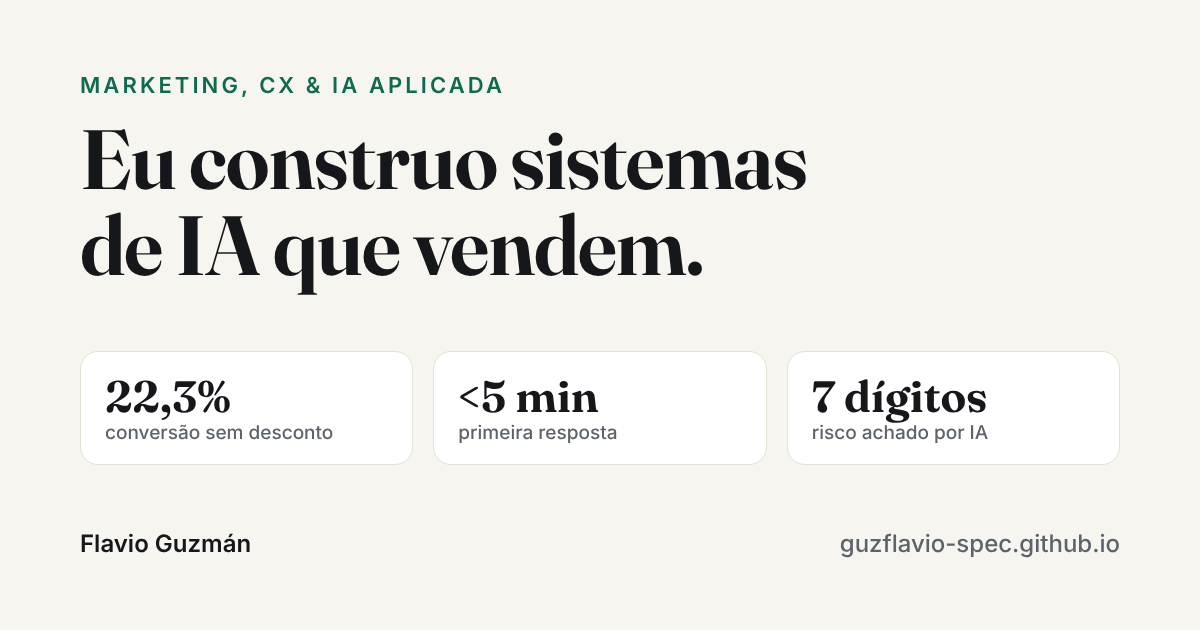
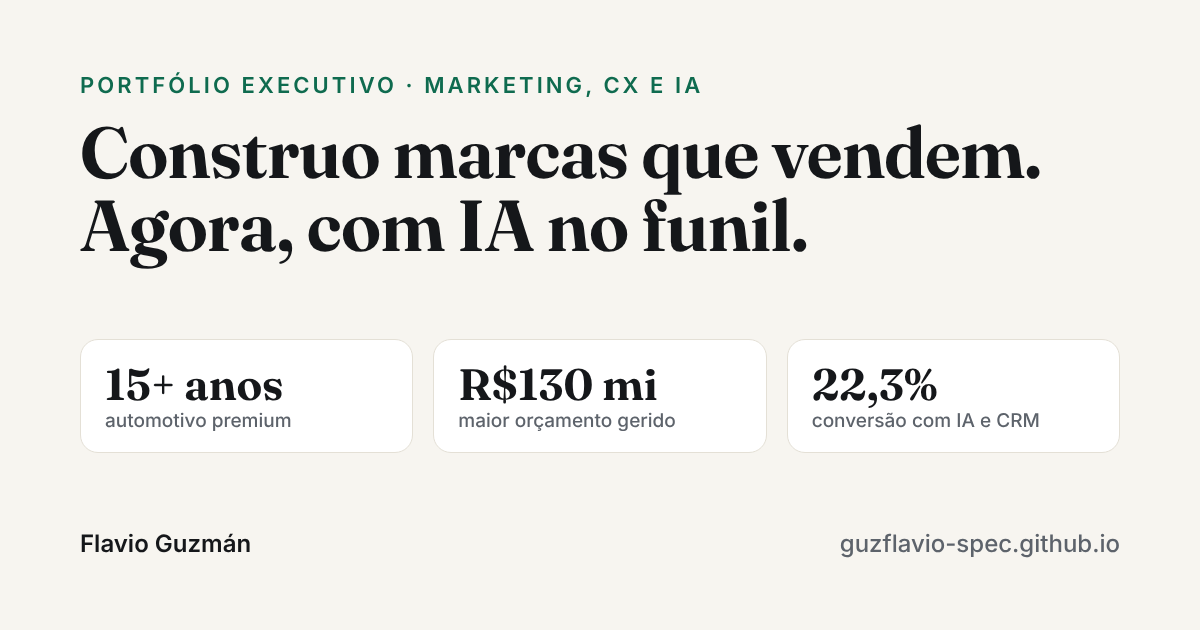
Restructure as executive portfolio: at-a-glance, career highlights, timeline, languages; explicit periods for AI KPIs
Claude-Session: https://claude.ai/code/session_013HVjQyzdKUtreiCeLwRMDJ

diff --git a/index.html b/index.html
@@ -3,10 +3,10 @@
 <head>
 <meta charset="utf-8">
 <meta name="viewport" content="width=device-width, initial-scale=1">
-<title>Flavio Guzmán · Portfólio de IA</title>
-<meta name="description" content="Flavio Guzmán — Marketing &amp; CX leader building AI systems that sell: CRM copilots, multi-agent marketing and data products.">
-<meta property="og:title" content="Flavio Guzmán · IA aplicada a marketing e vendas">
-<meta property="og:description" content="Sistemas de IA em produção no funil de vendas: a dor, a solução, o resultado e quanto custaria sem IA. AI systems that sell.">
+<title>Flavio Guzmán · Portfólio executivo</title>
+<meta name="description" content="Portfólio executivo de Flavio Guzmán: 15+ anos liderando Marketing, Produto, CX e PR no automotivo premium (Lotus, MG, GWM, Mercedes-Benz, Honda) e IA aplicada a vendas.">
+<meta property="og:title" content="Flavio Guzmán · Portfólio executivo">
+<meta property="og:description" content="15+ anos no automotivo premium, orçamentos de até R$130 mi, reporte ao CEO e IA em produção no funil de vendas. Executive portfolio: marketing, CX and applied AI.">
 <meta property="og:type" content="website">
 <meta property="og:url" content="https://guzflavio-spec.github.io/">
 <meta property="og:image" content="https://guzflavio-spec.github.io/og.png">
@@ -69,8 +69,56 @@ h1{font-family:Fraunces,Georgia,serif;font-weight:650;font-size:clamp(34px,6vw,5
 .kpi b{display:block;font-family:Fraunces,Georgia,serif;font-size:32px;line-height:1.1;font-weight:650}
 .kpi small{color:var(--muted);font-size:14px;line-height:1.4;display:block;margin-top:4px}
 
+
+/* nav */
+.nav{display:none;gap:18px}
+.nav a{color:var(--muted);text-decoration:none;font:500 14px Inter,sans-serif}
+.nav a:hover{color:var(--ink)}
+@media (min-width:960px){.nav{display:flex}}
+/* hero v3 */
+.hero-grid{display:grid;grid-template-columns:1fr;gap:28px;align-items:start}
+@media (min-width:960px){.hero-grid{grid-template-columns:1.25fr 1fr;gap:40px}}
+.hero .lede{font-size:clamp(16px,1.9vw,18px)}
+.hero .btns{margin-top:22px}
+.btn.dark{background:var(--ink);color:var(--bg)}
+.btn.line{background:var(--surface);color:var(--ink);border:1px solid var(--line)}
+.glance{background:var(--surface);border:1px solid var(--line);border-radius:18px;box-shadow:var(--shadow);padding:6px 20px}
+.glance h2{font:700 12px Inter,sans-serif;letter-spacing:.14em;text-transform:uppercase;color:var(--muted);margin:14px 0 4px}
+.glance dl{margin:0}
+.glance .row{display:grid;grid-template-columns:96px 1fr;gap:12px;padding:11px 0;border-top:1px solid var(--line);font-size:14.5px;line-height:1.45}
+.glance .row:first-child{border-top:0}
+.glance dt{font:700 11.5px Inter,sans-serif;letter-spacing:.08em;text-transform:uppercase;color:var(--accent);padding-top:2px}
+.glance dd{margin:0}
+.glance .ai dd b{color:var(--accent)}
+/* highlights */
+.hl{display:grid;grid-template-columns:repeat(2,1fr);gap:12px}
+@media (min-width:860px){.hl{grid-template-columns:repeat(4,1fr)}}
+.hl > div{background:var(--surface);border:1px solid var(--line);border-radius:14px;padding:18px;box-shadow:var(--shadow);display:flex;flex-direction:column}
+.hl b{font-family:Fraunces,Georgia,serif;font-size:clamp(24px,3vw,32px);line-height:1.1;font-weight:650}
+.hl p{margin:6px 0 10px;font-size:14px;color:var(--ink);line-height:1.4}
+.hl small{margin-top:auto;font-size:12.5px;color:var(--muted)}
+.hl .ai{background:var(--accent-soft);border-color:transparent}
+.hl .ai small{color:var(--accent);font-weight:600}
+.featured-kpis{margin:0 0 24px}
+/* timeline */
+.tl{list-style:none;margin:0;padding:0;border-left:2px solid var(--line);max-width:860px}
+.tl li{position:relative;padding:0 0 26px 22px}
+.tl li::before{content:"";position:absolute;left:-7px;top:6px;width:12px;height:12px;border-radius:50%;background:var(--surface);border:2px solid var(--accent)}
+.tl .when{font:600 13px Inter,sans-serif;color:var(--muted)}
+.tl h3{margin:2px 0 2px;font-size:18px;line-height:1.3}
+.tl h3 span.co{color:var(--accent)}
+.tl p{margin:4px 0 0;font-size:15px}
+.tl .scope{color:var(--muted);font-size:14px}
+.tl li.early h3{font-size:16px}
+/* profile */
+.profile{display:grid;grid-template-columns:1fr;gap:16px}
+@media (min-width:720px){.profile{grid-template-columns:repeat(3,1fr)}}
+.profile ul{margin:6px 0 0;padding-left:18px;font-size:14.5px}
+.profile li{margin:4px 0}
+.profile li small{color:var(--muted)}
+
 /* section */
-section{padding:40px 0}
+section{padding:40px 0;scroll-margin-top:56px}
 h2{font-family:Fraunces,Georgia,serif;font-weight:650;font-size:clamp(26px,3.6vw,36px);margin:0 0 8px;letter-spacing:-.01em}
 .sub{color:var(--muted);margin:0 0 28px;max-width:720px}
 
@@ -178,7 +226,14 @@ footer{color:var(--muted);font-size:13px;padding:28px 0 48px}
 
 <div class="bar">
   <div class="wrap">
-    <div class="brand">Flavio Guzmán <span><span class="pt">· Portfólio de IA</span><span class="en">· AI Portfolio</span></span></div>
+    <div class="brand">Flavio Guzmán <span><span class="pt">· Portfólio executivo</span><span class="en">· Executive portfolio</span></span></div>
+    <nav class="nav" aria-label="Seções">
+      <a href="#highlights"><span class="pt">Destaques</span><span class="en">Highlights</span></a>
+      <a href="#featured"><span class="pt">IA aplicada</span><span class="en">Applied AI</span></a>
+      <a href="#career"><span class="pt">Trajetória</span><span class="en">Career</span></a>
+      <a href="#media"><span class="pt">Mídia</span><span class="en">Media</span></a>
+      <a href="#profile"><span class="pt">Idiomas</span><span class="en">Languages</span></a>
+    </nav>
     <div class="bar-right">
     <a class="hdr-cta" href="#contact"><span class="pt">Contato</span><span class="en">Contact</span></a>
     <div class="toggle" role="group" aria-label="Idioma / Language">
@@ -190,27 +245,59 @@ footer{color:var(--muted);font-size:13px;padding:28px 0 48px}
 </div>
 
 <header class="hero">
+  <div class="wrap hero-grid">
+    <div>
+      <div class="eyebrow"><span class="pt">Portfólio executivo</span><span class="en">Executive portfolio</span></div>
+      <div class="who" style="margin-top:16px"><img class="avatar" src="foto.jpg" width="72" height="72" alt="Flavio Guzmán"><div><b>Flavio Guzmán</b><span class="r"><span class="pt">Executivo de Marketing, Produto, CX e PR · São Paulo</span><span class="en">Marketing, Product, CX &amp; PR executive · São Paulo</span></span></div></div>
+      <h1><span class="pt">Construo marcas que vendem. Agora, com IA no funil.</span><span class="en">I build brands that sell. Now with AI in the funnel.</span></h1>
+      <p class="lede"><span class="pt">Mais de 15 anos no automotivo premium, no Brasil e na América Latina, em Mercedes-Benz, Honda, GWM, MG e Lotus. Liderei entradas de marca com orçamento de até R$130 milhões, reportando ao CEO. Como Head de Go-to-Market da GWM, a chegada ao Brasil somou cerca de 8 mil carros e mais de R$2 bilhões em vendas em 5 meses. Em 2026 levei a IA para dentro do CRM: um copiloto de vendas em Salesforce e Claude que segue em uso.</span><span class="en">15+ years in premium automotive across Brazil and Latin America, at Mercedes-Benz, Honda, GWM, MG and Lotus. I have led brand entries with budgets of up to R$130M, reporting to the CEO. As GWM's Head of Go-to-Market, the Brazil launch reached about 8,000 cars and R$2B+ in sales in 5 months. In 2026 I brought AI into the CRM: a sales copilot on Salesforce and Claude that is still in use.</span></p>
+      <div class="btns">
+        <a class="btn dark" href="cv.pdf" download="CV_Flavio_Guzman.pdf"><span class="pt">Baixar CV</span><span class="en">Download CV</span></a>
+        <a class="btn line" href="https://www.linkedin.com/in/flavio-guzm%C3%A1n/" rel="noopener" target="_blank">LinkedIn</a>
+        <a class="btn line" href="#featured"><span class="pt">Ver o caso de IA</span><span class="en">See the AI case</span> ↓</a>
+      </div>
+    </div>
+    <aside class="glance" aria-label="Em resumo">
+      <h2><span class="pt">Em resumo</span><span class="en">At a glance</span></h2>
+      <dl>
+        <div class="row"><dt><span class="pt">Gestão</span><span class="en">Scope</span></dt><dd><span class="pt">Orçamentos de até R$130 mi · reporte ao CEO · 3 agências · rede de 70+ grupos de concessionárias</span><span class="en">Budgets up to R$130M · reporting to the CEO · 3 agencies · network of 70+ dealer groups</span></dd></div>
+        <div class="row"><dt><span class="pt">Marcas</span><span class="en">Brands</span></dt><dd>Lotus · MG · GWM (Haval, Ora, Wey) · Mercedes-Benz <span class="pt">e</span><span class="en">&amp;</span> AMG · Honda</dd></div>
+        <div class="row"><dt><span class="pt">Áreas</span><span class="en">Functions</span></dt><dd><span class="pt">Marketing, Produto, Marca, CRM, CX e PR</span><span class="en">Marketing, Product, Brand, CRM, CX and PR</span></dd></div>
+        <div class="row ai"><dt><span class="pt">IA</span><span class="en">AI</span></dt><dd><span class="pt"><b>22,3%</b> de conversão sem desconto e resposta em <b>&lt;5 min</b> com CRM e IA (2026)</span><span class="en"><b>22.3%</b> conversion with no discounting and <b>&lt;5 min</b> response with CRM and AI (2026)</span></dd></div>
+        <div class="row"><dt><span class="pt">Idiomas</span><span class="en">Languages</span></dt><dd><span class="pt">Português nativo · Inglês fluente · Espanhol avançado</span><span class="en">Portuguese (native) · English (fluent) · Spanish (advanced)</span></dd></div>
+        <div class="row"><dt><span class="pt">Mídia</span><span class="en">Media</span></dt><dd><span class="pt">Porta-voz em TV e imprensa · 1º show de drones num lançamento automotivo</span><span class="en">Spokesperson on TV and in the press · first drone show at a car launch</span></dd></div>
+      </dl>
+    </aside>
+  </div>
+</header>
+
+<section id="highlights">
   <div class="wrap">
-    <div class="who"><img class="avatar" src="foto.jpg" width="72" height="72" alt="Flavio Guzmán"><div><b>Flavio Guzmán</b><span class="r"><span class="pt">Head de Marketing, CX e PR</span><span class="en">Head of Marketing, CX &amp; PR</span></span></div></div>
-    <div class="eyebrow"><span class="pt">Marketing, CX e IA aplicada</span><span class="en">Marketing, CX and applied AI</span></div>
-    <h1><span class="pt">Eu construo sistemas de IA que vendem.</span><span class="en">I build AI systems that sell.</span></h1>
-    <p class="lede">
-      <span class="pt">Lidero Marketing e CX e coloco IA para trabalhar no funil. Um dos meus sistemas diz a cada vendedor de uma importadora de luxo quem chamar hoje e o que dizer, e está em produção no Salesforce. Cada caso abaixo mostra a dor, a solução, o resultado e quanto custaria sem IA.</span>
-      <span class="en">I lead Marketing and CX and put AI to work across the funnel. One of my systems tells every salesperson at a luxury car importer who to call today and what to say, live in Salesforce. Each case below shows the pain, the solution, the result and what it would cost without AI.</span>
-    </p>
-    <div class="kpis">
-      <div class="kpi"><b>22,3%</b><small><span class="pt">de conversão em leads de alto valor, sem desconto no preço</span><span class="en">conversion on high-ticket leads, with no price discounting</span></small></div>
+    <h2><span class="pt">Destaques da carreira</span><span class="en">Career highlights</span></h2>
+    <p class="sub"><span class="pt">Resultados de marca, mercado e IA, com a empresa e o período de cada um.</span><span class="en">Brand, market and AI results, each with its company and period.</span></p>
+    <div class="hl">
+      <div><b>R$2 bi+</b><p><span class="pt">em vendas e ~8 mil carros nos 5 primeiros meses da marca no Brasil</span><span class="en">in sales and ~8,000 cars in the brand's first 5 months in Brazil</span></p><small>GWM · Go-to-Market</small></div>
+      <div><b><span class="pt">1º lugar</span><span class="en">#1</span></b><p><span class="pt">em SUVs híbridos já no primeiro mês de vendas</span><span class="en">in hybrid SUVs in the very first month of sales</span></p><small>GWM · Go-to-Market</small></div>
+      <div><b>16</b><p><span class="pt">prêmios de imprensa em 5 meses</span><span class="en">press awards in 5 months</span></p><small>GWM · Go-to-Market</small></div>
+      <div><b>R$33,6 mi</b><p><span class="pt">em mídia espontânea, com 600+ matérias positivas</span><span class="en">in earned media, with 600+ positive articles</span></p><small>MG Motor · 2025</small></div>
+      <div><b><span class="pt">1º</span><span class="en">First</span></b><p><span class="pt">show de drones num lançamento automotivo, no rooftop do Teatro Santander</span><span class="en">drone show at a car launch, on the Teatro Santander rooftop</span></p><small>MG Motor · 11/11/2025</small></div>
+      <div><b>R$5 mi</b><p><span class="pt">em mídia espontânea no lançamento da marca</span><span class="en">in earned media at the brand launch</span></p><small>Lotus · 2026</small></div>
+      <div class="ai"><b>22,3%</b><p><span class="pt">de conversão em leads de alto valor, sem desconto no preço</span><span class="en">conversion on high-ticket leads, with no price discounting</span></p><small><span class="pt">IA + CRM · jan–ago 2026</span><span class="en">AI + CRM · Jan–Aug 2026</span></small></div>
+      <div class="ai"><b>&lt;5 min</b><p><span class="pt">até a primeira resposta ao cliente</span><span class="en">to first customer response</span></p><small><span class="pt">IA + CRM · jan–ago 2026</span><span class="en">AI + CRM · Jan–Aug 2026</span></small></div>
+    </div>
+  </div>
+</section>
+
+<section id="featured">
+  <div class="wrap">
+    <h2><span class="pt">IA aplicada: principais conquistas</span><span class="en">Applied AI: key achievements</span></h2>
+    <p class="sub"><span class="pt">Sistemas que construí com IA e coloquei no funil de vendas. Cada caso mostra a dor, a solução, o resultado e quanto custaria sem IA. O principal: um copiloto que diz a cada vendedor quem chamar hoje, por que e com qual mensagem.</span><span class="en">Systems I built with AI and put into the sales funnel. Each case shows the pain, the solution, the result and what it would cost without AI. The flagship: a copilot that tells every salesperson who to call today, why, and with which message.</span></p>
+    <div class="kpis featured-kpis">
+      <div class="kpi"><b>22,3%</b><small><span class="pt">de conversão em leads de alto valor, sem desconto (jan–ago 2026)</span><span class="en">conversion on high-ticket leads, no discounting (Jan–Aug 2026)</span></small></div>
       <div class="kpi"><b>&lt;5 min</b><small><span class="pt">até a primeira resposta ao cliente, com CRM e IA</span><span class="en">to first customer response, with CRM and AI</span></small></div>
       <div class="kpi"><b><span class="pt">7 dígitos</span><span class="en">7 figures</span></b><small><span class="pt">de risco financeiro achado por auditoria automática</span><span class="en">in financial exposure found by an automated audit</span></small></div>
       <div class="kpi"><b>~60</b><small><span class="pt">pessoas-mês estimadas para fazer o mesmo sem IA*</span><span class="en">estimated person-months to do the same without AI*</span></small></div>
     </div>
-  </div>
-</header>
-
-<section id="featured">
-  <div class="wrap">
-    <h2><span class="pt">O caso principal</span><span class="en">The flagship case</span></h2>
-    <p class="sub"><span class="pt">Um copiloto que entrega a cada vendedor quem chamar hoje, por que e com qual mensagem.</span><span class="en">A copilot that tells every salesperson who to call today, why, and with which message.</span></p>
 
     <article class="feature">
       <div class="feature-head">
@@ -263,7 +350,7 @@ footer{color:var(--muted);font-size:13px;padding:28px 0 48px}
         </div>
         <div>
           <div class="label"><span class="pt">3 · Resultado</span><span class="en">3 · Output</span></div>
-          <p><span class="pt">Implantado para todo o time. Conversão de 22,3% em leads de alto valor sem desconto no preço e primeira resposta em menos de 5 minutos. Cada vendedor abre o dia com a lista priorizada, o perfil do cliente, o argumento de mercado e a mensagem pronta. Uma auditoria automática de pedidos achou um risco financeiro de sete dígitos em sinais sem confirmação e conflitos de alocação de carro, e propôs as regras de validação.</span><span class="en">Rolled out to the whole team. 22.3% conversion on high-ticket leads with no discounting, and first response in under 5 minutes. Every rep starts the day with a prioritized list, the buyer's profile, the market angle and a ready message. An automated order audit surfaced a seven-figure exposure in unconfirmed deposits plus car-allocation conflicts, and proposed the validation rules.</span></p>
+          <p><span class="pt">Implantado para todo o time. No período de janeiro a agosto de 2026, com o CRM completo (jornadas, lead score, MEDDIC e o copiloto), a conversão em leads de alto valor foi de 22,3% sem desconto no preço, com primeira resposta em menos de 5 minutos. Cada vendedor abre o dia com a lista priorizada, o perfil do cliente, o argumento de mercado e a mensagem pronta. Uma auditoria automática de pedidos achou um risco financeiro de sete dígitos em sinais sem confirmação e conflitos de alocação de carro, e propôs as regras de validação.</span><span class="en">Rolled out to the whole team. From January to August 2026, with the full CRM in place (journeys, lead scoring, MEDDIC and the copilot), high-ticket lead conversion was 22.3% with no discounting, with first response in under 5 minutes. Every rep starts the day with a prioritized list, the buyer's profile, the market angle and a ready message. An automated order audit surfaced a seven-figure exposure in unconfirmed deposits plus car-allocation conflicts, and proposed the validation rules.</span></p>
         </div>
         <div class="noai">
           <div class="label"><span class="pt">4 · Sem IA (estimativa)</span><span class="en">4 · Without AI (estimate)</span></div>
@@ -276,7 +363,7 @@ footer{color:var(--muted);font-size:13px;padding:28px 0 48px}
       <p class="shots-h"><span class="pt">Telas reais do sistema · nomes, marcas e valores trocados ou ocultos</span><span class="en">Real screens from the system · names, brands and values replaced or hidden</span></p>
       <figure><a href="tela-simulacao.jpg" target="_blank" rel="noopener"><img src="tela-simulacao.jpg" width="1400" height="455" loading="lazy" alt="Guia do vendedor: simulação do lead do cadastro à venda"></a><figcaption><span class="pt">Guia do vendedor: o lead do cadastro à venda, com a regra de temperatura que prioriza o dia.</span><span class="en">Rep guide: a lead from entry to sale, with the temperature rule that sets the day's priorities.</span></figcaption></figure>
       <figure><a href="tela-disc.jpg" target="_blank" rel="noopener"><img src="tela-disc.jpg" width="1400" height="524" loading="lazy" alt="Abordagem por perfil DISC"></a><figcaption><span class="pt">Abordagem por perfil DISC, inferida do que o vendedor registra no Salesforce.</span><span class="en">DISC-based approach, inferred from what the rep logs in Salesforce.</span></figcaption></figure>
-      <figure><a href="tela-bi.jpg" target="_blank" rel="noopener"><img src="tela-bi.jpg" width="1400" height="515" loading="lazy" alt="BI: leads e conversão por mídia"></a><figcaption><span class="pt">BI: o site trazia 40% dos leads, mas virava oportunidade só 1,1% das vezes. Eventos convertiam 25%. A leitura apontou a prioridade: acelerar o primeiro contato do lead digital e ampliar eventos.</span><span class="en">BI: the website brought 40% of leads but only 1.1% became opportunities, while events converted 25%. The read set the priority: speed up first contact on digital leads and do more events.</span></figcaption></figure>
+      <figure><a href="tela-bi.jpg" target="_blank" rel="noopener"><img src="tela-bi.jpg" width="1400" height="515" loading="lazy" alt="BI: leads e conversão por mídia"></a><figcaption><span class="pt">BI, painel de 12/08/2026: o site trazia 40% dos leads, mas virava oportunidade só 1,1% das vezes. Eventos convertiam 25%. A leitura apontou a prioridade: acelerar o primeiro contato do lead digital e ampliar eventos.</span><span class="en">BI, snapshot of 12 Aug 2026: the website brought 40% of leads but only 1.1% became opportunities, while events converted 25%. The read set the priority: speed up first contact on digital leads and do more events.</span></figcaption></figure>
     </div>
   </div>
 </section>
@@ -390,6 +477,30 @@ footer{color:var(--muted);font-size:13px;padding:28px 0 48px}
   </div>
 </section>
 
+<section id="career">
+  <div class="wrap">
+    <h2><span class="pt">Trajetória</span><span class="en">Career</span></h2>
+    <p class="sub"><span class="pt">Cada função com o escopo que eu tinha e o que mudou sob minha gestão.</span><span class="en">Each role with the scope I held and what changed under my leadership.</span></p>
+    <ol class="tl">
+      <li><div class="when"><span class="pt">jan–ago 2026</span><span class="en">Jan–Aug 2026</span></div><h3><span class="pt">Head de Marketing, CX e PR</span><span class="en">Head of Marketing, CX &amp; PR</span> · <span class="co">Lotus Cars <span class="pt">Brasil</span><span class="en">Brazil</span></span></h3>
+        <p class="scope"><span class="pt">Montei as áreas do zero, com reporte ao CEO e gestão de 3 agências.</span><span class="en">Built the functions from scratch, reporting to the CEO and managing 3 agencies.</span></p>
+        <p><span class="pt">Lançamento com ~R$5 mi em mídia espontânea. CRM no Salesforce com jornadas de WhatsApp, lead score, MEDDIC e copiloto de IA: 22,3% de conversão sem desconto e resposta em menos de 5 minutos. Eventos VIP, track days, porta-voz e gestão de crise.</span><span class="en">Launch with ~R$5M in earned media. Salesforce CRM with WhatsApp journeys, lead scoring, MEDDIC and an AI copilot: 22.3% conversion with no discounting and response in under 5 minutes. VIP events, track days, spokesperson and crisis comms.</span></p></li>
+      <li><div class="when"><span class="pt">out–dez 2025</span><span class="en">Oct–Dec 2025</span></div><h3><span class="pt">Head de Marketing, Produto, Marca, CRM e PR</span><span class="en">Head of Marketing, Product, Brand, CRM &amp; PR</span> · <span class="co">MG Motor <span class="pt">Brasil</span><span class="en">Brazil</span></span></h3>
+        <p class="scope"><span class="pt">Orçamento anual de R$50 mi.</span><span class="en">R$50M annual budget.</span></p>
+        <p><span class="pt">Lançamento da marca no Brasil com o primeiro show de drones num lançamento automotivo. 600+ matérias positivas e R$33,6 mi em mídia espontânea. Plano de go-to-market da linha premium IM e estande no Salão do Automóvel de São Paulo.</span><span class="en">Brand launch in Brazil with the first drone show at a car launch. 600+ positive articles and R$33.6M in earned media. Go-to-market plan for the premium IM line and the São Paulo Motor Show stand.</span></p></li>
+      <li><div class="when"><span class="pt">mai 2024 – out 2025</span><span class="en">May 2024 – Oct 2025</span></div><h3>Brand Manager Haval, Ora <span class="pt">e</span><span class="en">&amp;</span> Wey · <span class="co">GWM <span class="pt">Brasil</span><span class="en">Brazil</span></span></h3>
+        <p><span class="pt">Estratégia 360° das três marcas junto a mais de 70 grupos de concessionárias.</span><span class="en">360° strategy for the three brands across 70+ dealer groups.</span></p></li>
+      <li><div class="when"><span class="pt">set 2022 – mai 2024</span><span class="en">Sep 2022 – May 2024</span></div><h3><span class="pt">Head de Go-to-Market</span><span class="en">Head of Go-to-Market</span> · <span class="co">GWM <span class="pt">Brasil</span><span class="en">Brazil</span></span></h3>
+        <p class="scope"><span class="pt">Entrada da marca no Brasil, com orçamento de R$130 mi.</span><span class="en">Brand entry into Brazil, with a R$130M budget.</span></p>
+        <p><span class="pt">Liderança em SUVs híbridos já no primeiro mês, 16 prêmios de imprensa e cerca de 8 mil carros e R$2 bi+ em vendas brutas em 5 meses.</span><span class="en">Leadership in hybrid SUVs in month one, 16 press awards, and about 8,000 cars and R$2B+ in gross sales in 5 months.</span></p></li>
+      <li><div class="when">2012 – 2022</div><h3><span class="pt">Marketing de Produto, Preço e Mercados</span><span class="en">Product Marketing, Pricing &amp; Markets</span> · <span class="co">Mercedes-Benz Cars &amp; Vans <span class="pt">Brasil</span><span class="en">Brazil</span></span></h3>
+        <p><span class="pt">Dez anos em quatro funções: Market Manager para América Latina e Caribe; carros de passeio, com a introdução de híbridos e elétricos; HUB regional LATAM; e marketing de produto e preço de AMG GT, GLC, Classe G, Classe C, SL e EQC, com o configurador online e o Mercedes me connect.</span><span class="en">Ten years across four roles: Market Manager for Latin America and the Caribbean; passenger cars, introducing hybrids and EVs; the regional LATAM hub; and product marketing and pricing for AMG GT, GLC, G-Class, C-Class, SL and EQC, plus the online configurator and Mercedes me connect.</span></p></li>
+      <li class="early"><div class="when">2006 – 2012</div><h3>Honda · Izzo · Embraer</h3>
+        <p class="scope"><span class="pt">Vendas e planejamento regional na Honda, com interface com as fábricas do Japão, México e EUA e gestão de P&amp;L. Antes, gerente de vendas na Izzo e analista de importação na Embraer.</span><span class="en">Regional sales and planning at Honda, working with plants in Japan, Mexico and the US and managing P&amp;L. Before that, sales manager at Izzo and import analyst at Embraer.</span></p></li>
+    </ol>
+  </div>
+</section>
+
 <section id="media">
   <div class="wrap">
     <h2><span class="pt">Porta-voz de marca</span><span class="en">Brand spokesperson</span></h2>
@@ -405,12 +516,30 @@ footer{color:var(--muted);font-size:13px;padding:28px 0 48px}
   </div>
 </section>
 
+<section id="profile">
+  <div class="wrap">
+    <h2><span class="pt">Idiomas, formação e certificações</span><span class="en">Languages, education and certifications</span></h2>
+    <div class="profile">
+      <div class="card"><h4><span class="pt">Idiomas</span><span class="en">Languages</span></h4><ul>
+        <li><span class="pt">Português <small>· nativo</small></span><span class="en">Portuguese <small>· native</small></span></li>
+        <li><span class="pt">Inglês <small>· fluente, nível executivo (estudos em Dublin, 2007–08)</small></span><span class="en">English <small>· fluent, executive level (studied in Dublin, 2007–08)</small></span></li>
+        <li><span class="pt">Espanhol <small>· avançado, para negócios</small></span><span class="en">Spanish <small>· advanced, business</small></span></li></ul></div>
+      <div class="card"><h4><span class="pt">Formação</span><span class="en">Education</span></h4><ul>
+        <li><span class="pt">Administração, ênfase em Comércio Exterior <small>· UNIP</small></span><span class="en">BBA, Foreign Trade <small>· UNIP</small></span></li>
+        <li><span class="pt">MBA em Comunicação e Marketing <small>· Estácio (trancado)</small></span><span class="en">MBA in Communication and Marketing <small>· Estácio (on hold)</small></span></li></ul></div>
+      <div class="card"><h4><span class="pt">Certificações</span><span class="en">Certifications</span></h4><ul>
+        <li>Certified AMG Product Expert</li>
+        <li><span class="pt">Embaixador AMG Project ONE <small>· Alemanha, Áustria, Espanha, EUA e Croácia</small></span><span class="en">AMG Project ONE Ambassador <small>· Germany, Austria, Spain, USA and Croatia</small></span></li></ul></div>
+    </div>
+  </div>
+</section>
+
 <section id="contact">
   <div class="wrap">
     <div class="cta">
       <div>
         <h2><span class="pt">Vamos conversar?</span><span class="en">Let's talk</span></h2>
-        <p><span class="pt">Procura alguém que leve a IA do slide para o CRM? Mostro qualquer um destes sistemas funcionando em 20 minutos.</span><span class="en">Looking for someone who takes AI from the slide deck into the CRM? I'll demo any of these systems live in 20 minutes.</span></p>
+        <p><span class="pt">Procura um executivo de marketing que leve a IA do slide para o CRM? Mostro qualquer um destes sistemas funcionando em 20 minutos.</span><span class="en">Looking for a marketing executive who takes AI from the slide deck into the CRM? I'll demo any of these systems live in 20 minutes.</span></p>
         <span class="mail"><a href="mailto:guzflavio@gmail.com">guzflavio@gmail.com</a> · <a href="https://github.com/guzflavio-spec" rel="noopener">GitHub</a></span>
       </div>
       <div class="btns">
